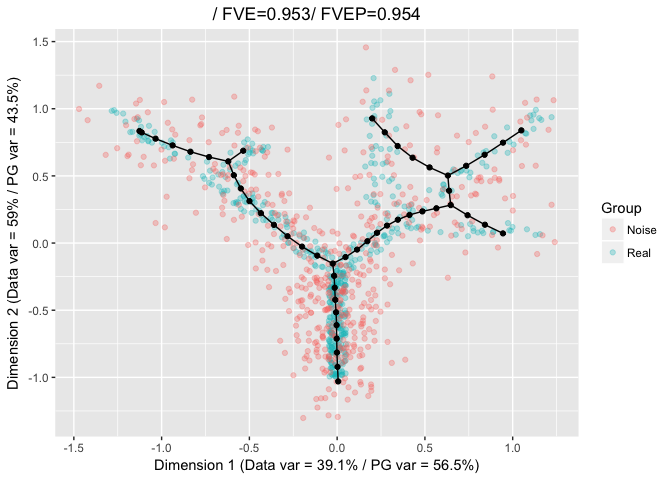
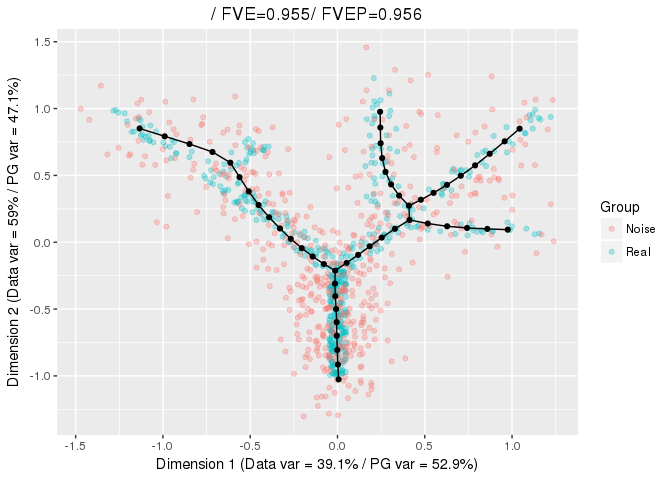
updated penalize energy guide

diff --git a/guides/energy.md b/guides/energy.md
@@ -44,7 +44,7 @@ branching points.
     ## Nodes = 2 3 4 5 6 7 8 9 10 11 12 13 14 15 16 17 18 19 20 21 22 23 24 25 26 27 28 29 30 31 32 33 34 35 36 37 38 39 40 41 42 43 44 45 46 47 48 49 
     ## BARCODE  ENERGY  NNODES  NEDGES  NRIBS   NSTARS  NRAYS   NRAYS2  MSE MSEP    FVE FVEP    UE  UR  URN URN2    URSD
     ## 2|5||50  0.03004 50  49  32  5   0   0   0.02217 0.02114 0.9616  0.9633  0.007692    0.0001747   0.008737    0.4369  0
-    ## 12.019 sec elapsed
+    ## 19.013 sec elapsed
 
     PlotPG(X = NoisyTree, TargetPG = TreeEPG[[1]], GroupsLab = NoisyTree_Cat,
            Do_PCA = FALSE, DimToPlot = 1:2)
@@ -68,8 +68,8 @@ branching points.
     ## [1] "Using a single core"
     ## Nodes = 2 3 4 5 6 7 8 9 10 11 12 13 14 15 16 17 18 19 20 21 22 23 24 25 26 27 28 29 30 31 32 33 34 35 36 37 38 39 40 41 42 43 44 45 46 47 48 49 
     ## BARCODE  ENERGY  NNODES  NEDGES  NRIBS   NSTARS  NRAYS   NRAYS2  MSE MSEP    FVE FVEP    UE  UR  URN URN2    URSD
-    ## 4||50    0.03375 50  49  40  4   0   0   0.02717 0.0264  0.9529  0.9542  0.005521    0.001059    0.05293 2.646   0
-    ## 13.317 sec elapsed
+    ## 3||50    0.03276 50  49  42  3   0   0   0.02615 0.02527 0.9547  0.9562  0.005797    0.0008153   0.04077 2.038   0
+    ## 19.363 sec elapsed
 
     PlotPG(X = NoisyTree, TargetPG = TreeEPG[[1]], GroupsLab = NoisyTree_Cat,
            Do_PCA = FALSE, DimToPlot = 1:2)
@@ -98,8 +98,8 @@ beto to influence the embeddment of the graph as well.
     ## [1] "Using a single core"
     ## Nodes = 2 3 4 5 6 7 8 9 10 11 12 13 14 15 16 17 18 19 20 21 22 23 24 25 26 27 28 29 30 31 32 33 34 35 36 37 38 39 40 41 42 43 44 45 46 47 48 49 
     ## BARCODE  ENERGY  NNODES  NEDGES  NRIBS   NSTARS  NRAYS   NRAYS2  MSE MSEP    FVE FVEP    UE  UR  URN URN2    URSD
-    ## 5||50    0.03159 50  49  38  5   0   0   0.02478 0.02401 0.957   0.9584  0.006461    0.0003422   0.01711 0.8555  0
-    ## 14.09 sec elapsed
+    ## 5||50    0.03121 50  49  38  5   0   0   0.0244  0.02343 0.9577  0.9594  0.006618    0.0001977   0.009884    0.4942  0
+    ## 20.049 sec elapsed
 
     PlotPG(X = NoisyTree, TargetPG = TreeEPG[[1]], GroupsLab = NoisyTree_Cat,
            Do_PCA = FALSE, DimToPlot = 1:2)
